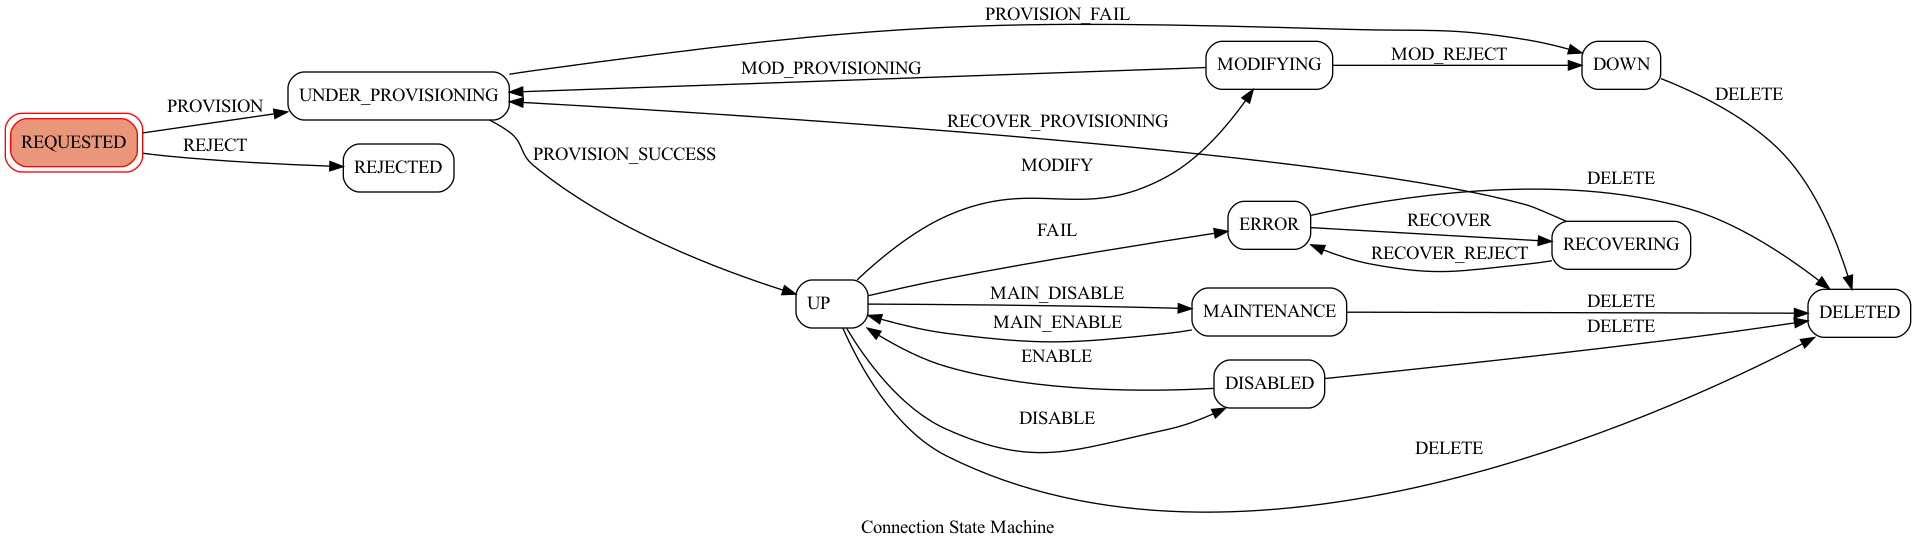
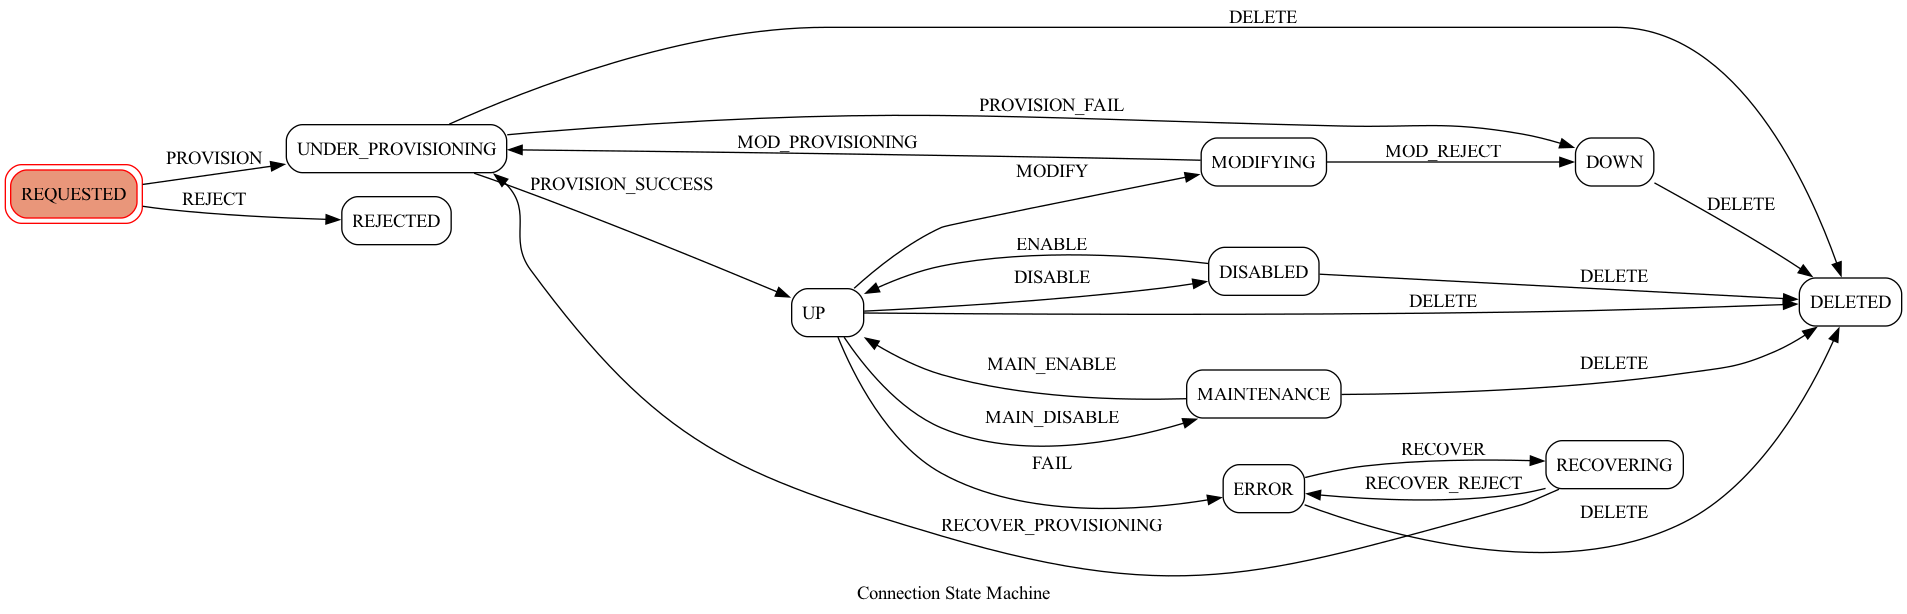
Merge pull request #204 from atlanticwave-sdx/200-port-nni-attribute-removed
200 Topology state machine update

Pull request: 200 Topology state machine update
adjust the topology state machine
issue #203

diff --git a/src/sdx_datamodel/connection_sm.py b/src/sdx_datamodel/connection_sm.py
@@ -158,6 +158,11 @@ class ConnectionStateMachine:
         },
         {
             "trigger": str(Trigger.DELETE),
+            "source": str(State.UNDER_PROVISIONING),
+            "dest": str(State.DELETED),
+        },
+        {
+            "trigger": str(Trigger.DELETE),
             "source": str(State.ERROR),
             "dest": str(State.DELETED),
         },
@@ -211,6 +216,7 @@ class ConnectionStateMachine:
             self.State.UNDER_PROVISIONING: [
                 self.State.UP,
                 self.State.DOWN,
+                self.State.DELETED,
             ],
             self.State.UP: [
                 self.State.MODIFYING,